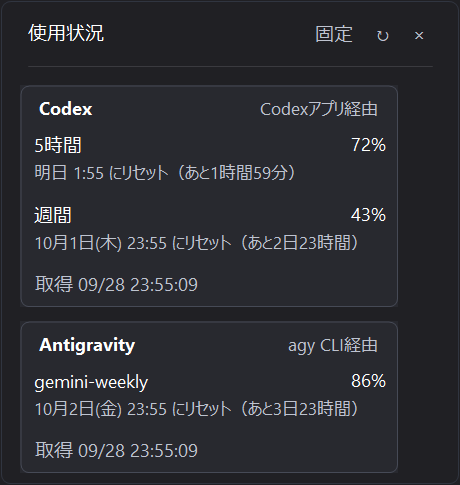
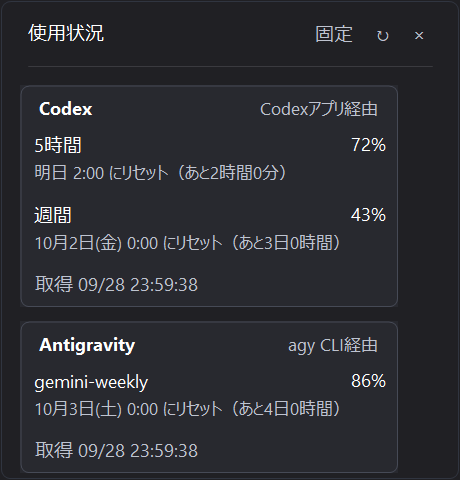
Pin folded services under the details list
Opening a folded card pushed the cards below it out of view. Keep folded
cards in a fixed footer under the scrolling list, move an opened card
into the list and scroll it into view, and size the popup so content
that fits never shows a scrollbar.

diff --git a/DetailsForm.cs b/DetailsForm.cs
@@ -16,6 +16,10 @@ internal sealed class DetailsForm : Form
     private bool openedFromHover;
     private readonly Button pin = new(), refresh = new(), hide = new();
     private readonly BufferedPanel list = new() { AutoScroll = true, BackColor = Color.FromArgb(32, 32, 36) };
+    // Folded services stay pinned under the scrolling list so they are always in view.
+    private readonly BufferedPanel footer = new() { BackColor = Color.FromArgb(32, 32, 36) };
+    private int footerHeight;
+    private string? revealProvider;
     private Reading codex = new("Codex", [], null), agy = new("Antigravity", [], null);
     private Reading? claude;
     private Reading? grok;
@@ -58,6 +62,7 @@ internal sealed class DetailsForm : Form
         MakeButton(refresh, "↻", L.T("使用状況を更新"), () => RefreshRequested?.Invoke());
         MakeButton(hide, "×", L.T("通知領域に収納"), CloseDetails);
         Controls.Add(list);
+        Controls.Add(footer);
         clock.Tick += (_, _) =>
         {
             if (!Visible) return;
@@ -97,11 +102,14 @@ internal sealed class DetailsForm : Form
     {
         pin.Visible = refresh.Visible = hide.Visible = expanded;
         list.Visible = expanded;
+        footer.Visible = expanded && footerHeight > 0;
         pin.SetBounds(Width - 156, 17, 62, 30);
         refresh.SetBounds(Width - 91, 17, 30, 30);
         hide.SetBounds(Width - 55, 17, 30, 30);
         pin.ForeColor = prefs.Pinned ? Mint : Muted;
-        list.SetBounds(20, 85, Math.Max(20, Width - 40), Math.Max(1, Height - 90));
+        int footerSpace = footerHeight > 0 ? footerHeight + 10 : 0;
+        list.SetBounds(20, 85, Math.Max(20, Width - 40), Math.Max(1, Height - 90 - footerSpace));
+        footer.SetBounds(20, Height - 5 - footerHeight, Math.Max(20, Width - 40), Math.Max(1, footerHeight));
     }
     private void RoundWindow()
     {
@@ -165,8 +173,8 @@ internal sealed class DetailsForm : Form
     {
         expanded = value;
         if (value) RebuildRows();
-        // Fit the popup to what the cards actually show (collapsed cards are one line).
-        int expandedHeight = Math.Min(Screen.FromRectangle(Bounds).WorkingArea.Height - 24, Math.Clamp(85 + contentHeight + 12, 220, 720));
+        // Fit the popup to what the cards show (folded cards sit in the fixed footer).
+        int expandedHeight = Math.Min(Screen.FromRectangle(Bounds).WorkingArea.Height - 24, Math.Clamp(92 + contentHeight + (footerHeight > 0 ? footerHeight + 10 : 0), 220, 720));
         target = value ? new Size(460, expandedHeight) : new Size(344, 54);
         ClientSize = target; ClampPosition();
         LayoutButtons(); Invalidate();
@@ -216,18 +224,19 @@ internal sealed class DetailsForm : Form
         // Child locations are relative to the current scroll offset; lay out from the top or each rebuild adds blank space below.
         list.AutoScrollPosition = Point.Empty;
         list.SuspendLayout();
-        foreach (Control c in list.Controls.Cast<Control>().ToArray()) { list.Controls.Remove(c); c.Dispose(); }
-        int y = 0;
+        foreach (Control c in list.Controls.Cast<Control>().Concat(footer.Controls.Cast<Control>()).ToArray()) { c.Parent!.Controls.Remove(c); c.Dispose(); }
+        int y = 0, fy = 0, revealY = -1;
         // Each service gets its own framed card so its quotas read as one group.
         foreach (var reading in OrderedReadings(prefs, codex, agy, claude, grok))
         {
-            var card = new ProviderCard { Location = new Point(0, y), Width = 378 };
-            list.Controls.Add(card);
-            var color = reading.Provider == "Codex" ? Mint : Violet;
-            int cy = 10;
             // Services not shown in the taskbar can be folded to a one-line summary by clicking their header.
             bool foldable = reading.Provider != prefs.TaskbarTop && reading.Provider != prefs.TaskbarBottom;
             bool folded = foldable && !prefs.ExpandedProviders.Contains(reading.Provider);
+            var card = new ProviderCard { Location = new Point(0, folded ? fy : y), Width = 378 };
+            (folded ? footer : list).Controls.Add(card);
+            if (reading.Provider == revealProvider && !folded) revealY = y;
+            var color = reading.Provider == "Codex" ? Mint : Violet;
+            int cy = 10;
             var title = AddLabel(card, (foldable ? (folded ? "▸ " : "▾ ") : "") + reading.Provider, new Rectangle(14, cy, 170, 25), color, 12, FontStyle.Bold);
             string status = folded ? ClockTextRenderer.TaskbarValue(reading)
                 : reading.Updated == null ? L.T("未接続") : reading.Stale ? L.T("前回の値") : reading.Source ?? L.T("取得元不明");
@@ -237,7 +246,8 @@ internal sealed class DetailsForm : Form
                 var provider = reading.Provider;
                 void Toggle(object? _, EventArgs __)
                 {
-                    if (!prefs.ExpandedProviders.Remove(provider)) prefs.ExpandedProviders.Add(provider);
+                    if (prefs.ExpandedProviders.Remove(provider)) revealProvider = null;
+                    else { prefs.ExpandedProviders.Add(provider); revealProvider = provider; }
                     prefs.Save();
                     // Rebuilding disposes the clicked label, so do it after this click handler returns.
                     BeginInvoke(() => { Expand(true, false); PositionAtTray(); });
@@ -247,7 +257,7 @@ internal sealed class DetailsForm : Form
             if (folded)
             {
                 card.Height = cy + 36;
-                y += card.Height + 14;
+                fy += card.Height + 8;
                 continue;
             }
             cy += 36;
@@ -271,8 +281,12 @@ internal sealed class DetailsForm : Form
             y += card.Height + 14;
         }
         contentHeight = Math.Max(0, y - 14);
+        footerHeight = Math.Max(0, fy - 8);
         list.AutoScrollMinSize = new Size(0, contentHeight);
-        list.ResumeLayout(); list.AutoScrollPosition = new Point(-scroll.X, -scroll.Y);
+        list.ResumeLayout();
+        // A card just opened from the footer scrolls into view; otherwise keep the reader's position.
+        list.AutoScrollPosition = revealY >= 0 ? new Point(0, revealY) : new Point(-scroll.X, -scroll.Y);
+        revealProvider = null;
     }
     // Providers shown in the taskbar come first (top row, then bottom row); the rest keep their default order.
     internal static IEnumerable<Reading> OrderedReadings(Preferences display, params Reading?[] readings) =>

diff --git a/GrokUsage.cs b/GrokUsage.cs
@@ -39,7 +39,7 @@ internal static class GrokUsage
         var stderr = proc.StandardError.ReadToEndAsync();
         try
         {
-            await proc.StandardInput.WriteLineAsync("""{"jsonrpc":"2.0","id":1,"method":"initialize","params":{"protocolVersion":1,"clientCapabilities":{},"clientInfo":{"name":"CodexLimitViewer","version":"0.1.13"}}}""");
+            await proc.StandardInput.WriteLineAsync("""{"jsonrpc":"2.0","id":1,"method":"initialize","params":{"protocolVersion":1,"clientCapabilities":{},"clientInfo":{"name":"CodexLimitViewer","version":"0.1.14"}}}""");
             await proc.StandardInput.WriteLineAsync("""{"jsonrpc":"2.0","id":2,"method":"_x.ai/billing","params":{}}""");
             await proc.StandardInput.FlushAsync(timeout.Token);
             while (true)

diff --git a/Providers.cs b/Providers.cs
@@ -25,7 +25,7 @@ internal static class Providers
         var errors = proc.StandardError.ReadToEndAsync();
         try
         {
-            await proc.StandardInput.WriteLineAsync("""{"id":1,"method":"initialize","params":{"clientInfo":{"name":"codex-limit-viewer","version":"0.1.13"}}}""");
+            await proc.StandardInput.WriteLineAsync("""{"id":1,"method":"initialize","params":{"clientInfo":{"name":"codex-limit-viewer","version":"0.1.14"}}}""");
             await ReadResult(proc, 1, ct);
             await proc.StandardInput.WriteLineAsync("""{"method":"initialized","params":{}}""");
             await proc.StandardInput.WriteLineAsync("""{"id":2,"method":"account/rateLimits/read"}""");

diff --git a/README.en.md b/README.en.md
@@ -12,7 +12,7 @@ A sleek, lightweight Windows 11 system tray application that continuously displa
 
 - **Always Visible**: Glance at your remaining quota percentage (lowest bucket) directly in your Windows 11 notification area without interrupting your work.
 - **Choose Two Rows**: Select Codex, Antigravity, Claude Code, or Grok for the top and bottom rows from the right-click menu. Selecting an item already in the other row automatically swaps them.
-- **Details on Hover**: Off by default. When enabled, hovering displays per-bucket quota, the reset date and time (today, tomorrow, or weekday and date) with the time left, and the last updated timestamp in a smooth fade popup. It fades out as soon as the pointer leaves both the display and popup. When disabled, a centered tooltip shows the app name. The details popup frames each service in its own card and lists the services shown in the taskbar rows first. Services not shown in the taskbar fold into a one-line summary; click the header to open or fold them. Reopening the popup scrolls back to the top.
+- **Details on Hover**: Off by default. When enabled, hovering displays per-bucket quota, the reset date and time (today, tomorrow, or weekday and date) with the time left, and the last updated timestamp in a smooth fade popup. It fades out as soon as the pointer leaves both the display and popup. When disabled, a centered tooltip shows the app name. The details popup frames each service in its own card and lists the services shown in the taskbar rows first. Services not shown in the taskbar fold into a one-line summary pinned to the bottom; click the header to open one (it moves into the list and scrolls into view) or fold it again. Reopening the popup scrolls back to the top.
 - **Multi-Service Integration**: Polls Codex (the desktop app's bundled binary or standalone Codex CLI), Antigravity (`agy`), and the official Grok Build CLI every 60 seconds. Claude quota is fetched every 3 minutes (the last values are kept across restarts) using your [Claude Code CLI](https://code.claude.com/docs/en/setup) sign-in. The app never stores or transmits credentials, except for sending the Claude sign-in token to Anthropic and renewing the CLI sign-in when it expires.
 - **Grok Weekly Quota**: Displays the remaining weekly quota percentage and reset time from the official Grok Build CLI (`grok.exe`) in the details popup. Choose Grok for either taskbar row in the right-click menu.
 - **Graceful Error Handling**: If a fetch fails, previous values remain visible in gray text rather than disappearing.
@@ -89,4 +89,4 @@ dotnet publish -c Release --self-contained true -p:PublishSingleFile=true -o dis
 - Unsigned pre-release software tested on Windows 11 at 150% DPI. Mixed-DPI configurations and reboot startup behavior are unverified.
 - License: [MIT License](LICENSE)
 - Codex with GPT-6 Sol (reasoning effort: Medium) was used for development. The Japanese and English publication text was proofread with Gemini 3.8 Flash (High) (reasoning effort: High).
-- Claude Code with Claude Opus 5.5 (reasoning effort: Medium) was used for the v0.1.3–v0.1.13 Claude integration fixes, automatic quota fetching, details ordering and reset-time display, the app icon, and release work.
+- Claude Code with Claude Opus 5.5 (reasoning effort: Medium) was used for the v0.1.3–v0.1.14 Claude integration fixes, automatic quota fetching, details ordering and reset-time display, the app icon, and release work.
